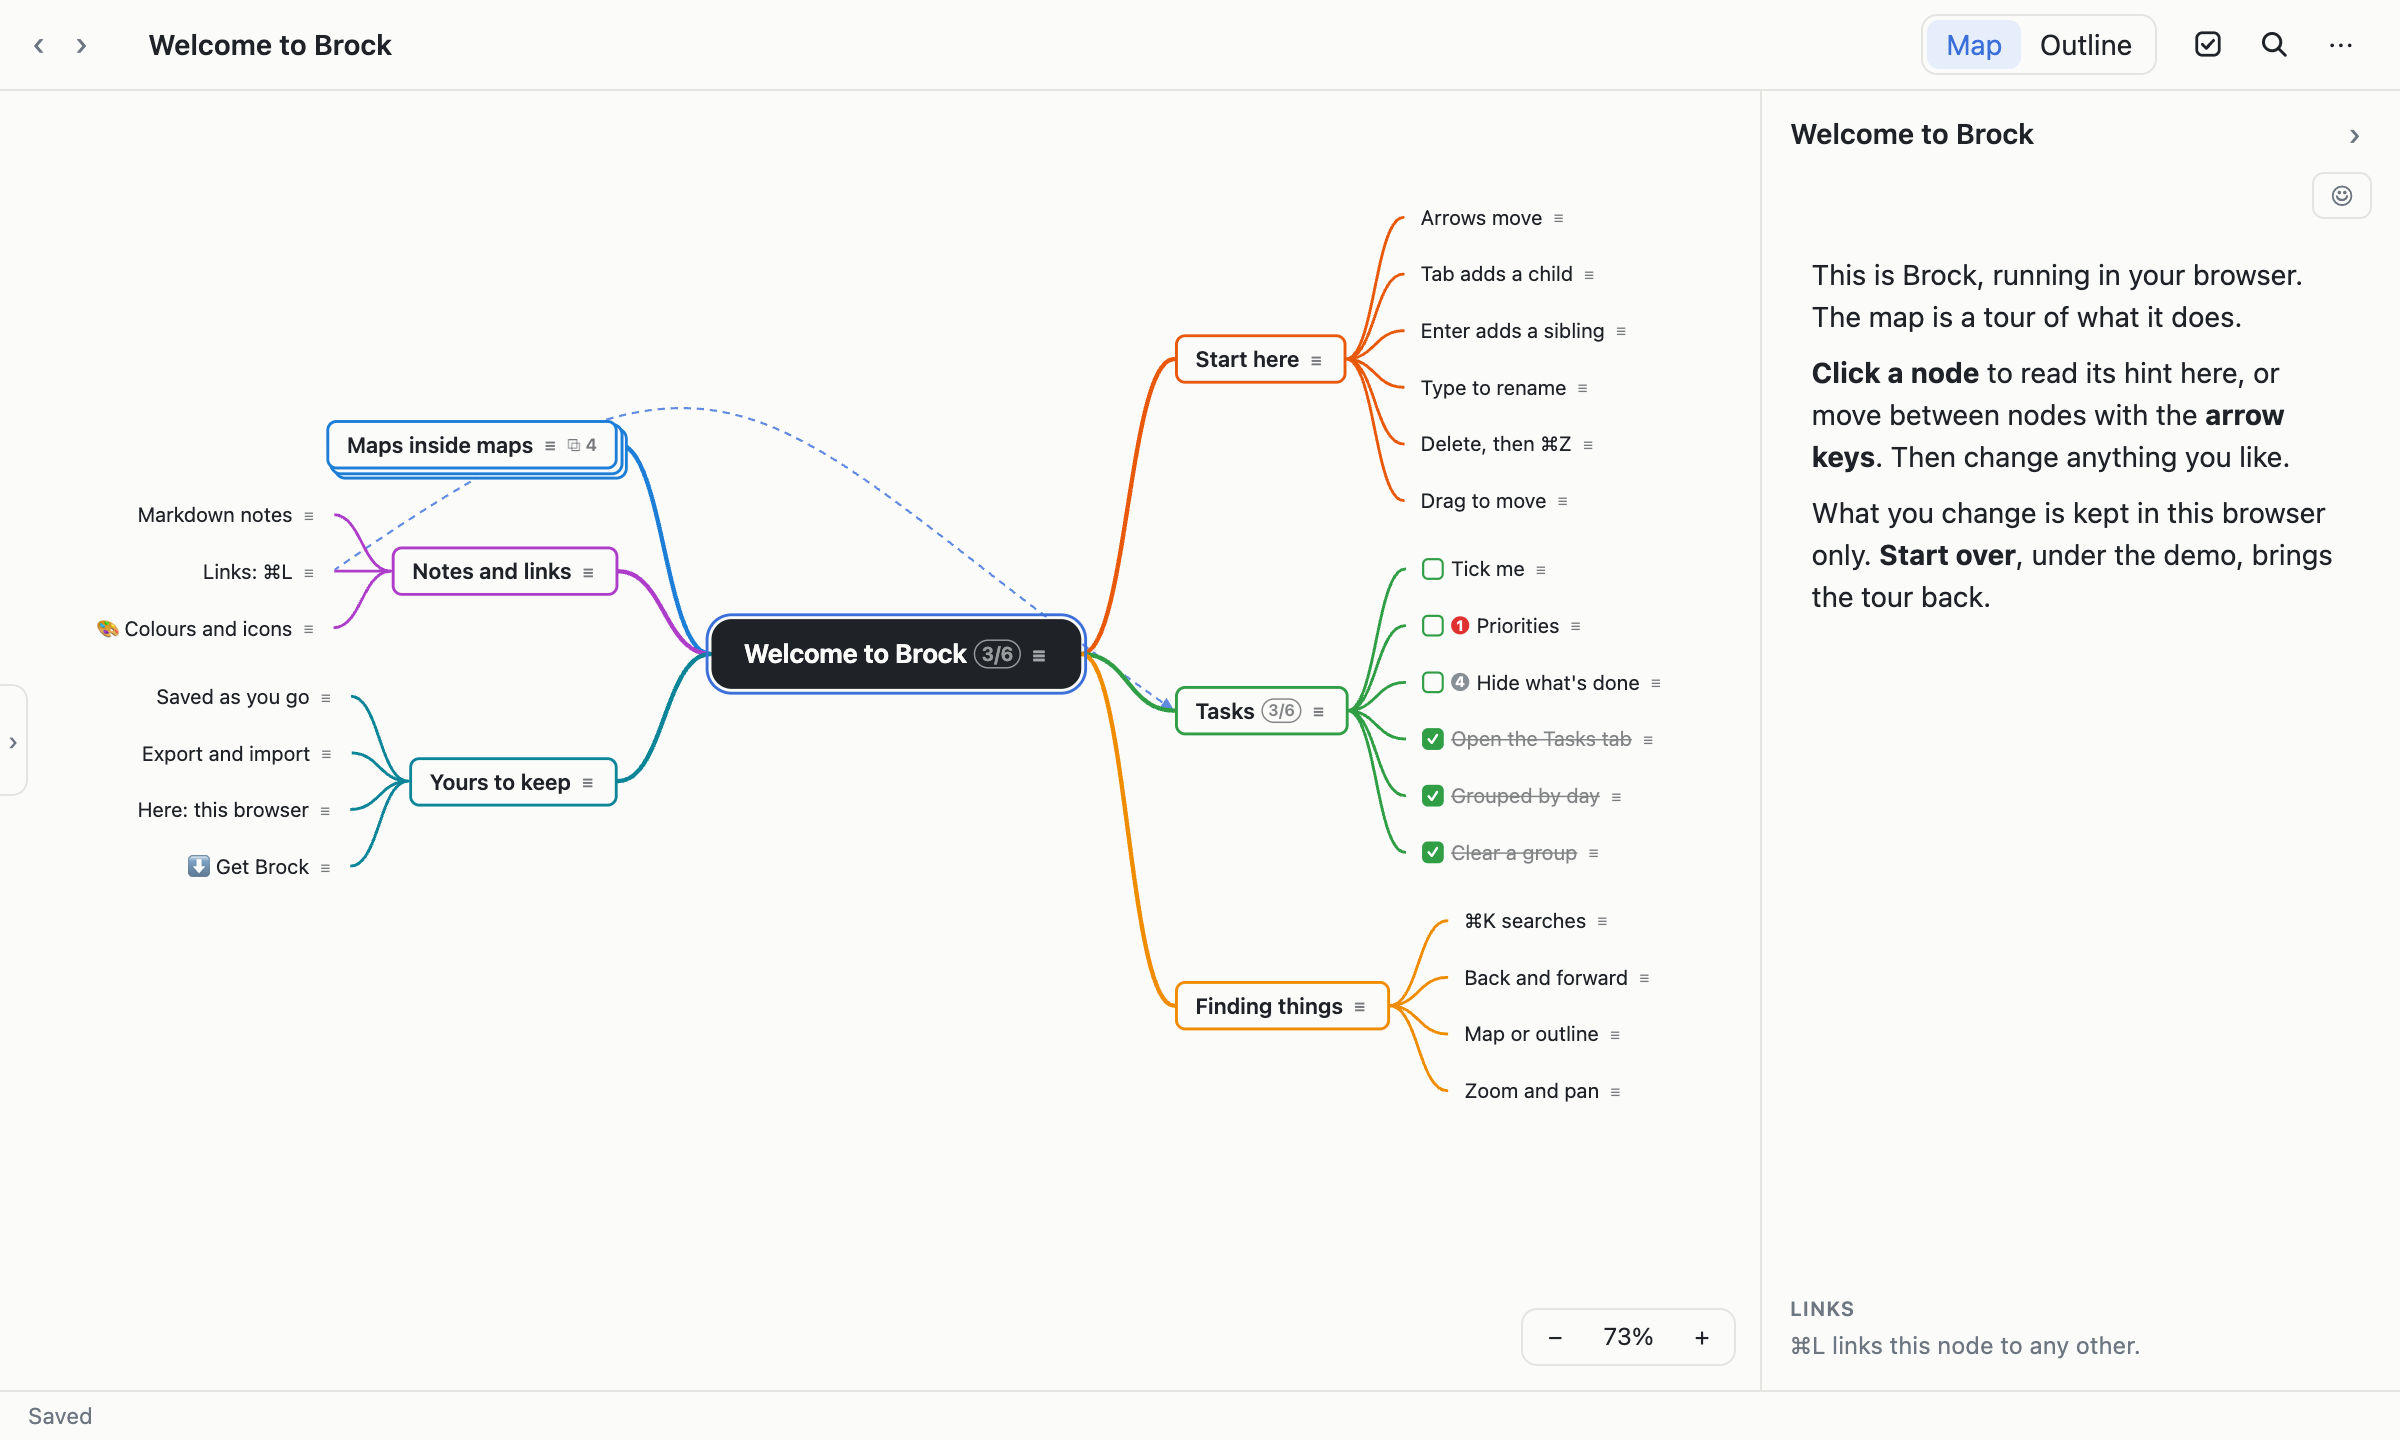
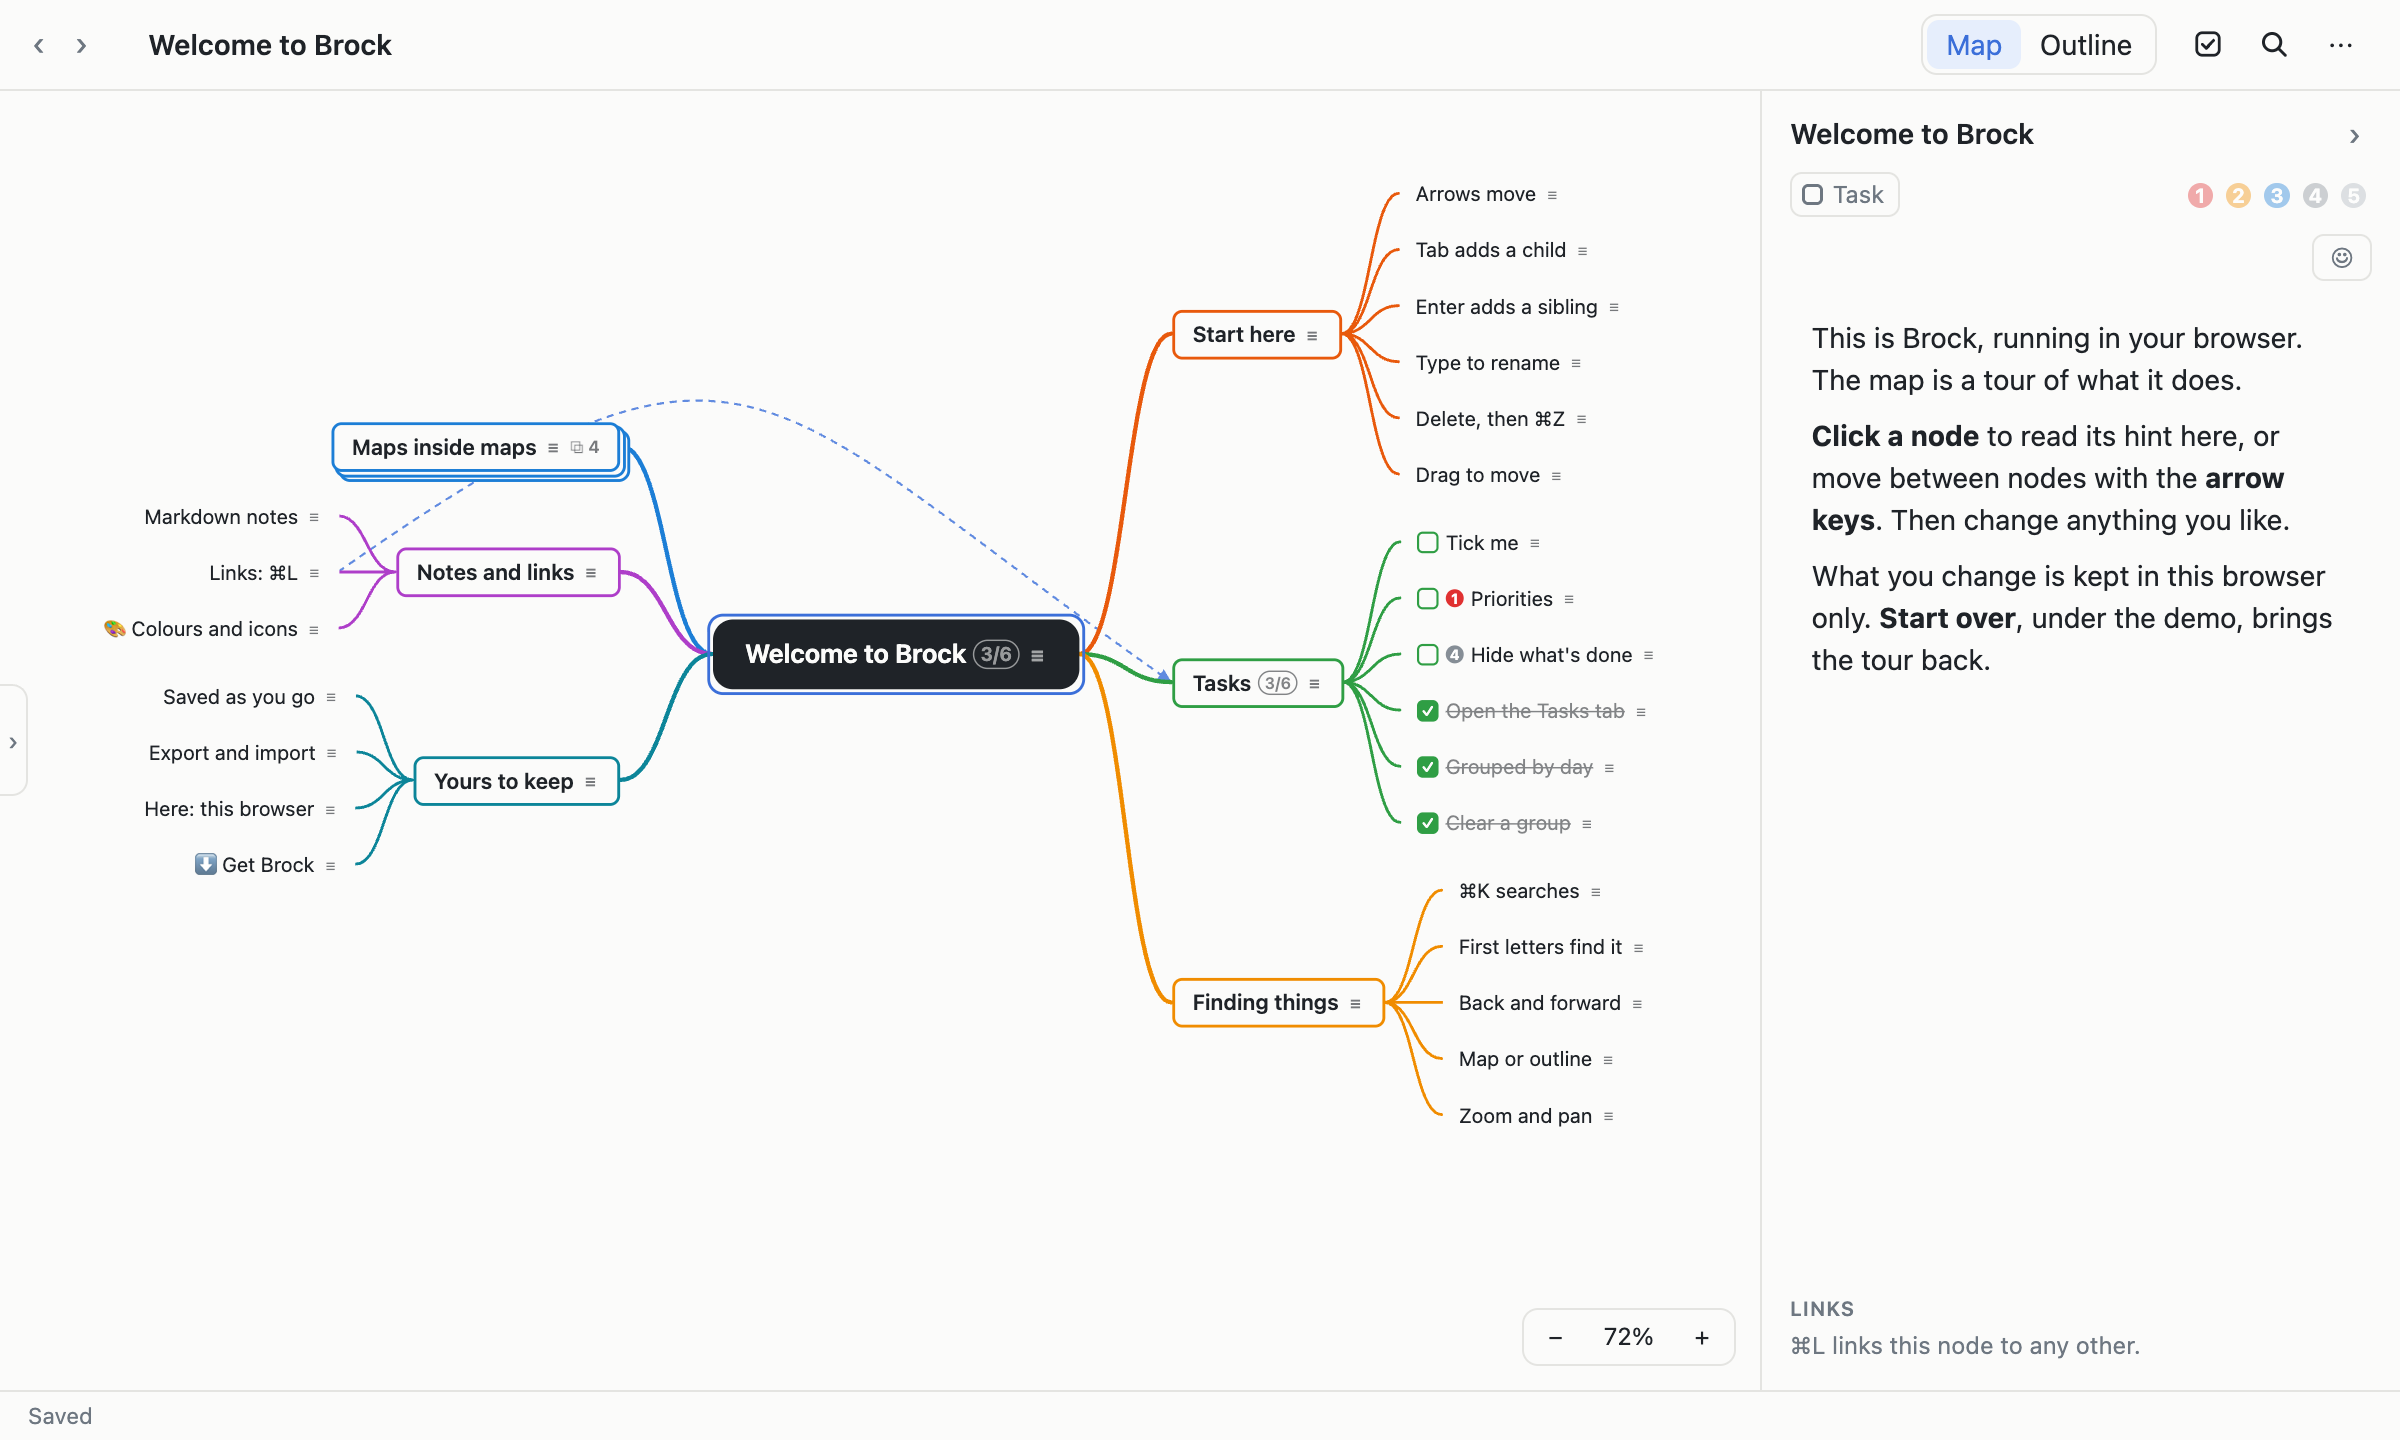
Bring the tour up to date with the app
The tour now says how to reach the sidebar's Tasks and Maps tabs (the ›
tab on the map's left edge, or their keys), names the hide-done button
as it looks, and adds nodes for finding a node by its words' first
letters and, in the app, for its own updates.

diff --git a/src/demo/tour.ts b/src/demo/tour.ts
@@ -62,6 +62,10 @@ function fill(vault: Vault, rootId: string, now: number, place: Place) {
   const priorityWay = web
     ? "The numbers at the top of this panel set a priority, or **⌘1** to **⌘5** in the app."
     : "**⌘1** to **⌘5** set a priority, or the numbers at the top of this panel.";
+  /** The way to the sidebar's tasks: its tab on the map's left edge, or a key a browser keeps for itself. */
+  const tasksWay = web
+    ? "The **›** tab on the left edge of the map opens the sidebar"
+    : "**⇧⌘T**, or the **›** tab on the left edge of the map, opens the sidebar";
 
   vault.update(rootId, {
     title: TOUR_TITLE,
@@ -133,13 +137,13 @@ function fill(vault: Vault, rootId: string, now: number, place: Place) {
     body: notes("There is no limit to how deep they go."),
   });
   add(deeper, "All maps: the Maps tab", {
-    body: notes("The small tab on the left edge opens the sidebar. Its **Maps** tab lists every map as a tree, to jump to any of them."),
+    body: notes("The **›** tab on the left edge of the map, or **⌃⌘S**, opens the sidebar. Its **Maps** tab lists every map as a tree, to jump to any of them."),
   });
 
   const tasks = branch("Tasks", {
     body: notes(
       `Any node can be a task with a checkbox: ${taskWay}.`,
-      "The sidebar's **Tasks** tab, on the left edge, lists the tasks of this map or of all maps. Done ones are grouped by when they were done, handy for a stand-up, and each group can be cleared on its own.",
+      `${tasksWay}: its **Tasks** tab lists the tasks of this map or of all maps. Done ones are grouped by when they were done, handy for a stand-up, and each group can be cleared on its own.`,
     ),
   });
   add(tasks, "Tick me", {
@@ -154,9 +158,9 @@ function fill(vault: Vault, rootId: string, now: number, place: Place) {
   add(tasks, "Hide what's done", {
     task: "open",
     priority: 4,
-    body: notes("The **✓** button at the top hides done tasks on the map, or **⇧⌘H**. Nothing is deleted."),
+    body: notes("The checkbox button at the top, beside the magnifier, hides done tasks on the map, or **⇧⌘H**. Nothing is deleted."),
   });
-  add(tasks, "Open the Tasks tab", { task: "done", doneAt: now, body: notes("Done today: it's under **Today** in the Tasks tab.") });
+  add(tasks, "Open the Tasks tab", { task: "done", doneAt: now, body: notes("Done today: it's under **Today** in the sidebar's Tasks tab.") });
   add(tasks, "Grouped by day", { task: "done", doneAt: now - DAY, body: notes("Done yesterday.") });
   add(tasks, "Clear a group", {
     task: "done",
@@ -195,7 +199,13 @@ function fill(vault: Vault, rootId: string, now: number, place: Place) {
     body: notes("However many maps you have, any node is a few keys away."),
   });
   add(finding, "⌘K searches", {
-    body: notes("**⌘K**, or the magnifier at the top, searches the titles and notes of every map. Pick a result to go straight there."),
+    body: notes("**⌘K**, or the magnifier at the top, searches the titles and notes of every map. Pick a result to go straight there.", "**Tab** in the search narrows it to this map, then to maps only."),
+  });
+  add(finding, "First letters find it", {
+    body: notes(
+      "Search also finds a node by the first letters of its title's words: **mim** finds *Maps inside maps*.",
+      "It learns as you go: the nodes you go to often, and the one you picked for the same letters before, come first.",
+    ),
   });
   add(finding, "Back and forward", {
     body: notes("The **‹ ›** buttons at the top, or **⌘[** and **⌘]**, go back and forward through the maps you've visited."),
@@ -208,13 +218,13 @@ function fill(vault: Vault, rootId: string, now: number, place: Place) {
   });
 
   const keeping = branch("Yours to keep", {
-    body: notes("Brock needs no account and no internet. In the app, your maps are in a database on your computer."),
+    body: notes("Brock needs no account and works without the internet. In the app, your maps are in a database on your computer."),
   });
   add(keeping, "Saved as you go", {
     body: notes("There's no Save button: every change is kept as you make it, and a copy of everything is made each day."),
   });
   add(keeping, "Export and import", {
-    body: notes("The **⋯** menu exports a map to Markdown, OPML or JSON, and imports OPML from other outliners."),
+    body: notes("The **⋯** menu exports a map to Markdown, OPML or JSON, or as a picture, and imports OPML from other outliners, or JSON exported before."),
   });
   if (web) {
     add(keeping, "Here: this browser", {
@@ -227,6 +237,12 @@ function fill(vault: Vault, rootId: string, now: number, place: Place) {
   } else {
     add(keeping, "Every command, in the menus", {
       body: notes("The menu bar lists every command with its key, for finding one without knowing the key."),
+    });
+    add(keeping, "Updates, when you say", {
+      body: notes(
+        "Brock looks for a newer version now and then and offers it in a corner of the window. Nothing is installed until you click **Install and restart**.",
+        "**Help › Check for Updates…** looks at once. **Settings** (**⌘,**) turns the looking off.",
+      ),
     });
     add(keeping, "Done? Remove the tour", {
       icon: "👋",

diff --git a/test/tour.test.ts b/test/tour.test.ts
@@ -3,6 +3,7 @@ import assert from "node:assert/strict";
 import { addTour, tour, TOUR_TITLE } from "../src/demo/tour.ts";
 import { removeTour, showTour, tourMap, welcome } from "../src/ui/tour.ts";
 import { groupDone, tasksUnder } from "../src/core/tasks.ts";
+import { search } from "../src/core/search.ts";
 import { Vault } from "../src/core/vault.ts";
 
 test("the demo's tour is a vault the app opens as it is", () => {
@@ -29,6 +30,11 @@ test("the demo's tour is a vault the app opens as it is", () => {
     ["Today", "Yesterday", "Earlier"],
     "the Tasks tab shows its groups",
   );
+
+  const hint = nodes.find((n) => n.title === "First letters find it")!;
+  const [, letters, title] = hint.body.match(/\*\*(\w+)\*\* finds \*([^*]+)\*/)!;
+  assert.equal(search(vault, letters)[0]?.node.title, title, "the first letters it names find that node");
+  assert.ok(nodes.every((n) => !n.body.includes("Check for Updates")), "updates are the app's alone");
 });
 
 test("in the app the tour is one map under the top, added as one step", () => {
@@ -45,6 +51,7 @@ test("in the app the tour is one map under the top, added as one step", () => {
   const bodies = [...vault.children(id)].flatMap((n) => [n.body, ...vault.children(n.id).map((c) => c.body)]);
   assert.ok(bodies.every((b) => !b.includes("browser")), "worded for the app");
   assert.ok(bodies.some((b) => b.includes("Remove the Tour")), "says how to remove it");
+  assert.ok(bodies.some((b) => b.includes("Check for Updates")), "says how it updates");
 
   vault.undo();
   assert.equal(vault.isLive(id), false, "one step");

diff --git a/AGENTS.md b/AGENTS.md
@@ -79,7 +79,7 @@ edit in the window → Vault (src/core) → changes → Saver → Store → appl
 | `src/ui/TasksList.svelte` | The sidebar's Tasks tab: the open map's or all maps' tasks, the done ones by when they were done |
 | `src/ui/MoreMenu.svelte` | The ⋯ menu: export, import, trash, settings |
 | `src/ui/TrashDialog.svelte` | The trash: restoring, emptying for good |
-| `src/ui/Settings.svelte` | Settings (⌘,): appearance, updates, the daily copies |
+| `src/ui/Settings.svelte` | Settings (⌘,): appearance, pictures, updates, the daily copies |
 | `src/ui/updates.ts` | The app's own updates: looking for one quietly, installing it and starting again; whether to look, kept in the window's storage |
 | `src/ui/UpdateOffer.svelte` | A newer version offered in a corner of the window, installed only on a click |
 | `src/ui/usage.ts` | Search's usage, kept in the window's storage |

diff --git a/README.md b/README.md
@@ -89,7 +89,7 @@ the arrow keys, then:
 | ⌘K | Searches every title and note in the vault; Tab narrows it to the open map, then to maps |
 | ⌘1 to ⌘5 | Gives the node a priority, 1 to 5; the same number again takes it off |
 | ⌥⌘1, ⌥⌘2 | The map, or the same map as an outline |
-| ⌘, | Settings: light, dark or as the system; the daily copies |
+| ⌘, | Settings: light, dark or as the system; pictures' background; updates; the daily copies |
 | ⇧⌘N | Shows the selected node's notes |
 | ⌘Z, ⇧⌘Z | Undo, redo |
 
